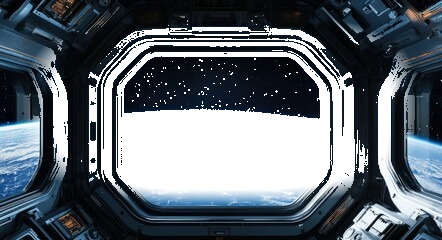
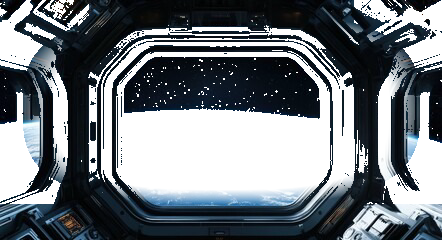
fix: mobile layout, AI api key handling, and cutout side windows

diff --git a/app/dashboard/page.js b/app/dashboard/page.js
@@ -53,12 +53,17 @@ export default function DashboardLanding() {
           />
 
           {/* Planeta Tierra */}
-          <motion.img 
-            src="https://media.giphy.com/media/xThtappQfQohcuRpeQ/giphy.gif" 
-            alt="Earth"
+          <motion.div 
             animate={{ rotate: 360 }}
             transition={{ repeat: Infinity, duration: 250, ease: "linear" }}
-            style={{ position: 'absolute', top: '5%', right: '15%', width: '40vw', minWidth: '300px', zIndex: 1, pointerEvents: 'none', filter: 'drop-shadow(0 0 40px rgba(0,180,255,0.4))', borderRadius: '50%' }}
+            style={{ 
+              position: 'absolute', top: '10%', right: '-10%', 
+              width: '50vw', height: '50vw', minWidth: '350px', minHeight: '350px', 
+              zIndex: 1, pointerEvents: 'none', 
+              borderRadius: '50%',
+              background: 'url(https://images.unsplash.com/photo-1614730321146-b6fa6a46bcb4?q=80&w=1000&auto=format&fit=crop) center / cover',
+              boxShadow: 'inset -30px -30px 60px rgba(0,0,0,0.9), 0 0 60px rgba(0, 180, 255, 0.3)'
+            }}
           />
 
           {/* Capa 2: Cabina Recortada (Primer Plano) */}
@@ -92,13 +97,14 @@ export default function DashboardLanding() {
                  <Image src="/assets/amde_logo.png" alt="AMDE" width={60} height={60} style={{ filter: 'drop-shadow(0 0 10px #00E4FF)', objectFit: 'contain' }} />
               </motion.div>
               <h1 style={{ 
-                fontSize: 'clamp(2.5rem, 5vw, 4.5rem)', 
+                fontSize: 'clamp(1.8rem, 5vw, 4.5rem)', 
                 margin: 0, 
                 background: 'linear-gradient(180deg, #FFFFFF 0%, #88CCFF 100%)',
                 WebkitBackgroundClip: 'text',
                 WebkitTextFillColor: 'transparent',
                 textShadow: '0 0 40px rgba(0, 228, 255, 0.4)',
-                fontWeight: 900,
+                fontFamily: 'system-ui, sans-serif',
+                fontWeight: 800,
                 letterSpacing: '2px',
                 textTransform: 'uppercase'
               }}>
@@ -124,7 +130,13 @@ export default function DashboardLanding() {
           </motion.div>
 
           {/* Main Portals / Buttons */}
-          <div style={{ display: 'grid', gridTemplateColumns: 'repeat(auto-fit, minmax(300px, 1fr))', gap: '2rem', width: '100%', marginTop: '2rem' }}>
+          <div style={{ 
+            display: 'grid', 
+            gridTemplateColumns: 'repeat(auto-fit, minmax(240px, 1fr))', 
+            gap: '1.5rem', 
+            width: '100%',
+            padding: '0 1rem'
+          }}>
             
             {/* Base de Misiones */}
             <Link href="/dashboard/misiones" style={{ textDecoration: 'none' }}>
@@ -136,16 +148,16 @@ export default function DashboardLanding() {
                   whileHover={{ y: -10, scale: 1.02, boxShadow: '0 10px 40px rgba(0,228,255,0.6), inset 0 0 40px rgba(0,228,255,0.4)' }}
                   whileTap={{ scale: 0.98 }}
                   style={{
-                    background: 'rgba(10, 20, 40, 0.25)',
+                    background: 'rgba(10, 15, 30, 0.25)',
                     backdropFilter: 'blur(12px)',
                     border: '2px solid rgba(0, 228, 255, 0.6)',
                     borderRadius: '24px',
-                    padding: '3rem 2rem',
+                    padding: 'clamp(1.5rem, 3vw, 3rem) clamp(1rem, 2vw, 2rem)',
                     display: 'flex',
                     flexDirection: 'column',
                     alignItems: 'center',
                     textAlign: 'center',
-                    gap: '1.5rem',
+                    gap: '1rem',
                     boxShadow: '0 10px 40px rgba(0,0,0,0.5), inset 0 0 20px rgba(0,228,255,0.2), 0 0 15px rgba(0,228,255,0.3)',
                     transition: 'all 0.3s ease',
                     cursor: 'pointer',
@@ -190,12 +202,12 @@ export default function DashboardLanding() {
                   backdropFilter: 'blur(12px)',
                   border: '2px solid rgba(153, 51, 255, 0.6)',
                   borderRadius: '24px',
-                  padding: '3rem 2rem',
+                  padding: 'clamp(1.5rem, 3vw, 3rem) clamp(1rem, 2vw, 2rem)',
                   display: 'flex',
                   flexDirection: 'column',
                   alignItems: 'center',
                   textAlign: 'center',
-                  gap: '1.5rem',
+                  gap: '1rem',
                   boxShadow: '0 10px 40px rgba(0,0,0,0.5), inset 0 0 20px rgba(153,51,255,0.2), 0 0 15px rgba(153,51,255,0.3)',
                   transition: 'all 0.3s ease',
                   cursor: 'pointer',
@@ -240,12 +252,12 @@ export default function DashboardLanding() {
                   backdropFilter: 'blur(12px)',
                   border: '2px solid rgba(0, 255, 136, 0.6)',
                   borderRadius: '24px',
-                  padding: '3rem 2rem',
+                  padding: 'clamp(1.5rem, 3vw, 3rem) clamp(1rem, 2vw, 2rem)',
                   display: 'flex',
                   flexDirection: 'column',
                   alignItems: 'center',
                   textAlign: 'center',
-                  gap: '1.5rem',
+                  gap: '1rem',
                   boxShadow: '0 10px 40px rgba(0,0,0,0.5), inset 0 0 20px rgba(0,255,136,0.2), 0 0 15px rgba(0,255,136,0.3)',
                   transition: 'all 0.3s ease',
                   cursor: 'pointer',
@@ -292,7 +304,7 @@ export default function DashboardLanding() {
                   backdropFilter: 'blur(12px)',
                   border: '2px solid rgba(255, 0, 255, 0.6)',
                   borderRadius: '24px',
-                  padding: '3rem 2rem',
+                  padding: 'clamp(1.5rem, 3vw, 3rem) clamp(1rem, 2vw, 2rem)',
                   display: 'flex',
                   flexDirection: 'column',
                   alignItems: 'center',

diff --git a/cutout.js b/cutout.js
@@ -20,29 +20,32 @@ async function main() {
     // squircle dist
     const dist = Math.pow(dx, 3) + Math.pow(dy, 3);
 
+    const r = this.bitmap.data[idx];
+    const g = this.bitmap.data[idx + 1];
+    const b = this.bitmap.data[idx + 2];
+    const luma = 0.2126 * r + 0.7152 * g + 0.0722 * b;
+
     if (dist < 1) {
       const feather = 0.6;
       if (dist > feather) {
         const alpha = Math.floor(255 * (dist - feather) / (1 - feather));
-        
-        const r = this.bitmap.data[idx];
-        const g = this.bitmap.data[idx + 1];
-        const b = this.bitmap.data[idx + 2];
-        const luma = 0.2126 * r + 0.7152 * g + 0.0722 * b;
         
         // If it's a bright pixel (earth/space), make it transparent
         if (luma > 40) {
            this.bitmap.data[idx + 3] = Math.min(this.bitmap.data[idx + 3], alpha);
         }
       } else {
-        const r = this.bitmap.data[idx];
-        const g = this.bitmap.data[idx + 1];
-        const b = this.bitmap.data[idx + 2];
-        const luma = 0.2126 * r + 0.7152 * g + 0.0722 * b;
-        
         if (luma > 30) {
            this.bitmap.data[idx + 3] = 0; 
         }
+      }
+    } else {
+      // SIDE WINDOWS:
+      // If we are on the left 20% or right 20% of the image, and it's upper half (windows), make bright pixels transparent
+      if ((x < w * 0.2 || x > w * 0.8) && y < h * 0.85) {
+         if (luma > 40) {
+            this.bitmap.data[idx + 3] = 0; // Make transparent so background shows through!
+         }
       }
     }
   });

diff --git a/app/api/chat/route.js b/app/api/chat/route.js
@@ -51,6 +51,13 @@ export async function POST(req) {
       };
     });
 
+    if (!process.env.GOOGLE_GENERATIVE_AI_API_KEY && !process.env.GEMINI_API_KEY) {
+      return new Response(JSON.stringify({ 
+        error: "Falta la clave API", 
+        details: "Comandante, la conexión con mi núcleo de IA está rota. Por favor agrega GOOGLE_GENERATIVE_AI_API_KEY en las variables de entorno de Vercel para que pueda funcionar en móviles y producción."
+      }), { status: 500, headers: { 'Content-Type': 'application/json' } });
+    }
+
     const result = streamText({
       model: google('gemini-2.5-flash'),
       system: systemPrompt + contextString,
